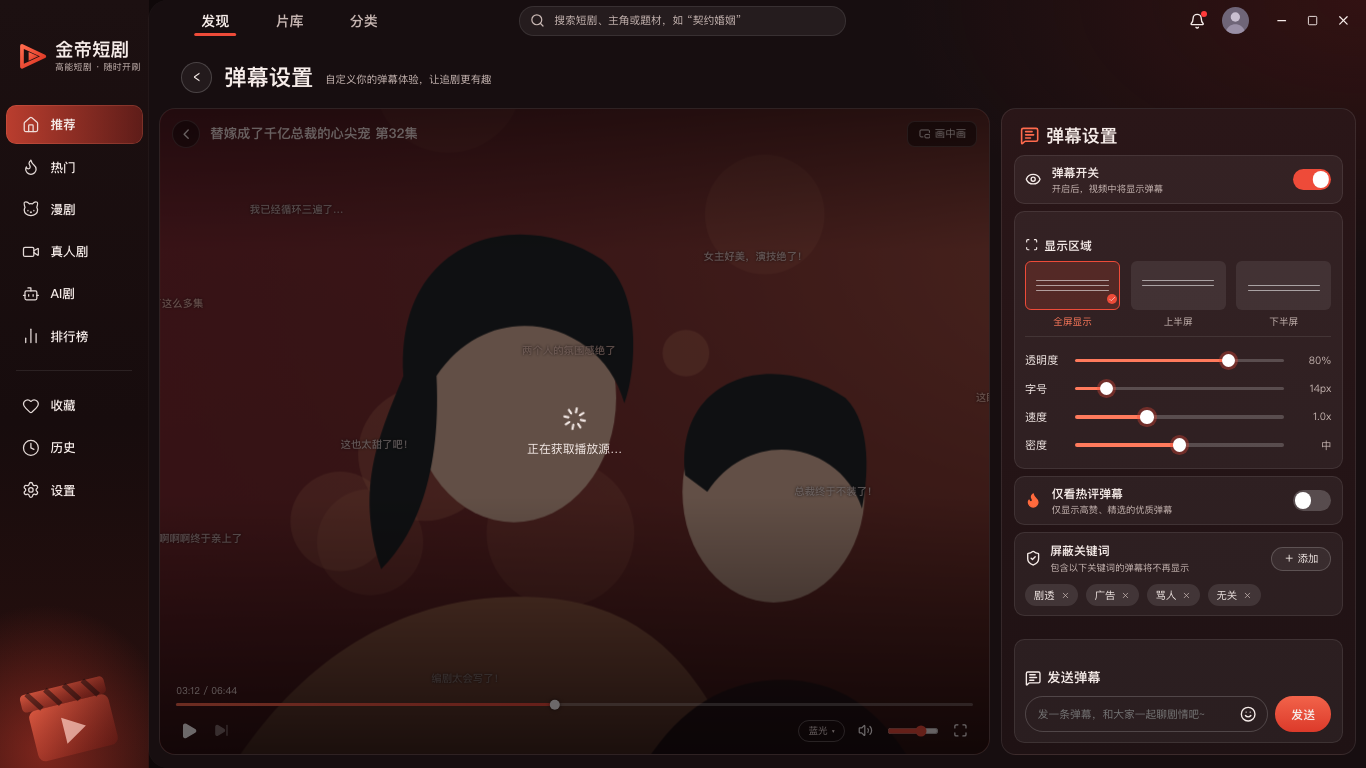
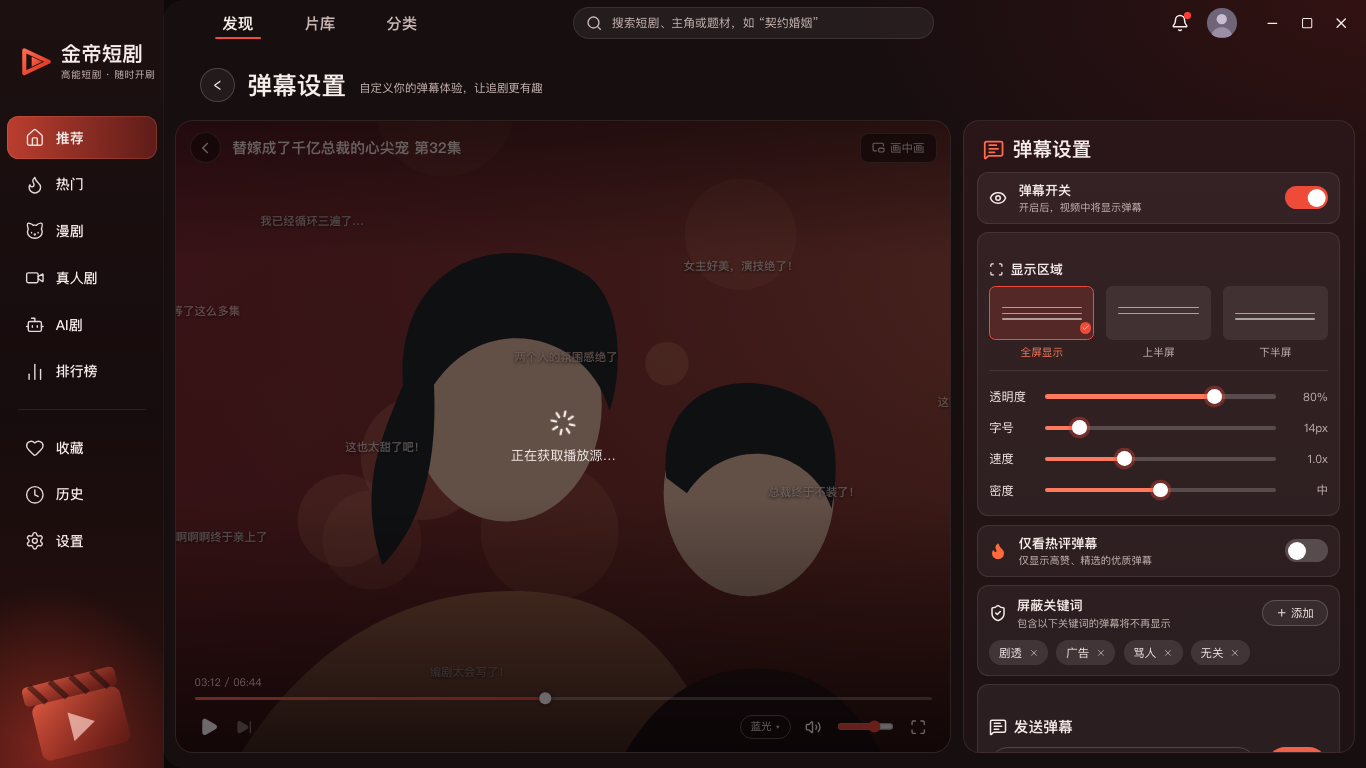
fix: 提高最小窗口并限制缩放下限，减轻小窗口文字发虚
Claude-Session: https://claude.ai/code/session_01FkchafgkzNwSSFxAZgtPwt

diff --git a/frontend/tests/e2e/01-home.spec.ts b/frontend/tests/e2e/01-home.spec.ts
@@ -36,8 +36,8 @@ test.describe('01 首页推荐', () => {
       await page.screenshot({ path: `../design/rendered/responsive/01-${w}x${h}.png` })
     })
   }
-  test('shrinking the window scales content down with no overflow (min window 1180x720)', async ({ page }) => {
-    await page.setViewportSize({ width: 1180, height: 720 })
+  test('shrinking the window scales content down with no overflow (min window 1280x860)', async ({ page }) => {
+    await page.setViewportSize({ width: 1280, height: 860 })
     await page.goto('/#/home'); await page.reload()
     await expect(page.getByTestId('hero')).toBeVisible()
     const m = await page.evaluate(() => ({ z: Number(getComputedStyle(document.documentElement).getPropertyValue('--app-zoom')), sw: document.documentElement.scrollWidth, cw: document.documentElement.clientWidth, sh: document.documentElement.scrollHeight, ch: document.documentElement.clientHeight }))

diff --git a/frontend/src/main.ts b/frontend/src/main.ts
@@ -6,10 +6,10 @@ import './styles/base.scss'
 import { prime } from './bindings'
 import { useAppSettings } from './stores/appSettings'
 
-// 按窗口相对设计稿 1448×1086 的比例双向缩放（0.66–2）：放大变大、缩小变小，布局宽高随之重排。
+// 按窗口相对设计稿 1448×1086 的比例双向缩放（0.82–2.2）：放大变大、缩小变小，布局宽高随之重排。
 const BASE = 1.05 // 整体基线放大 5%，让默认字号更易读
 function applyZoom() {
-  const z = Math.min(2.2, Math.max(0.72, BASE * Math.min(window.innerWidth / 1448, window.innerHeight / 1086)))
+  const z = Math.min(2.2, Math.max(0.82, BASE * Math.min(window.innerWidth / 1448, window.innerHeight / 1086)))
   document.documentElement.style.setProperty('--app-zoom', String(z))
 }
 applyZoom(); window.addEventListener('resize', applyZoom)

diff --git a/main.go b/main.go
@@ -21,8 +21,8 @@ func main() {
 		Title:            "金帝短剧",
 		Width:            1448,
 		Height:           1086,
-		MinWidth:         1180,
-		MinHeight:        720,
+		MinWidth:         1280,
+		MinHeight:        860,
 		Frameless:        true,
 		AssetServer:      &assetserver.Options{Assets: assets},
 		BackgroundColour: &options.RGBA{R: 15, G: 8, B: 9, A: 1},

diff --git a/docs/STATUS.md b/docs/STATUS.md
@@ -56,3 +56,5 @@
 - 默认窗口 1448×1086（设计稿尺寸），最小 1180×720，无边框。
 - 修复：原来只在窗口大于设计稿时放大，缩小时不缩放只出现滚动。现在按窗口相对 1448×1086 的比例双向缩放（基线放大 5%，范围 0.72–2.2；基线 10% 时默认窗口顶栏拥挤、播放器音量条被截断，已放弃），布局宽高随窗口重排。1180×720、1366×768 下无滚动条（浏览器验证 + e2e 回归）。
 - 未验证：在真实桌面窗口里拖动调整大小的手感（只做了固定尺寸视口的验证）。
+
+- 最小窗口由 1180×720 提高到 1280×860，缩放系数下限 0.82：用户反馈缩到 1180×720（系数约 0.7）时文字发虚，原因是小数缩放下字号被栅格化到小数像素；提高下限后系数不低于约 0.83。仍存在轻微缩放模糊的可能，未在 Windows 实机比较。
